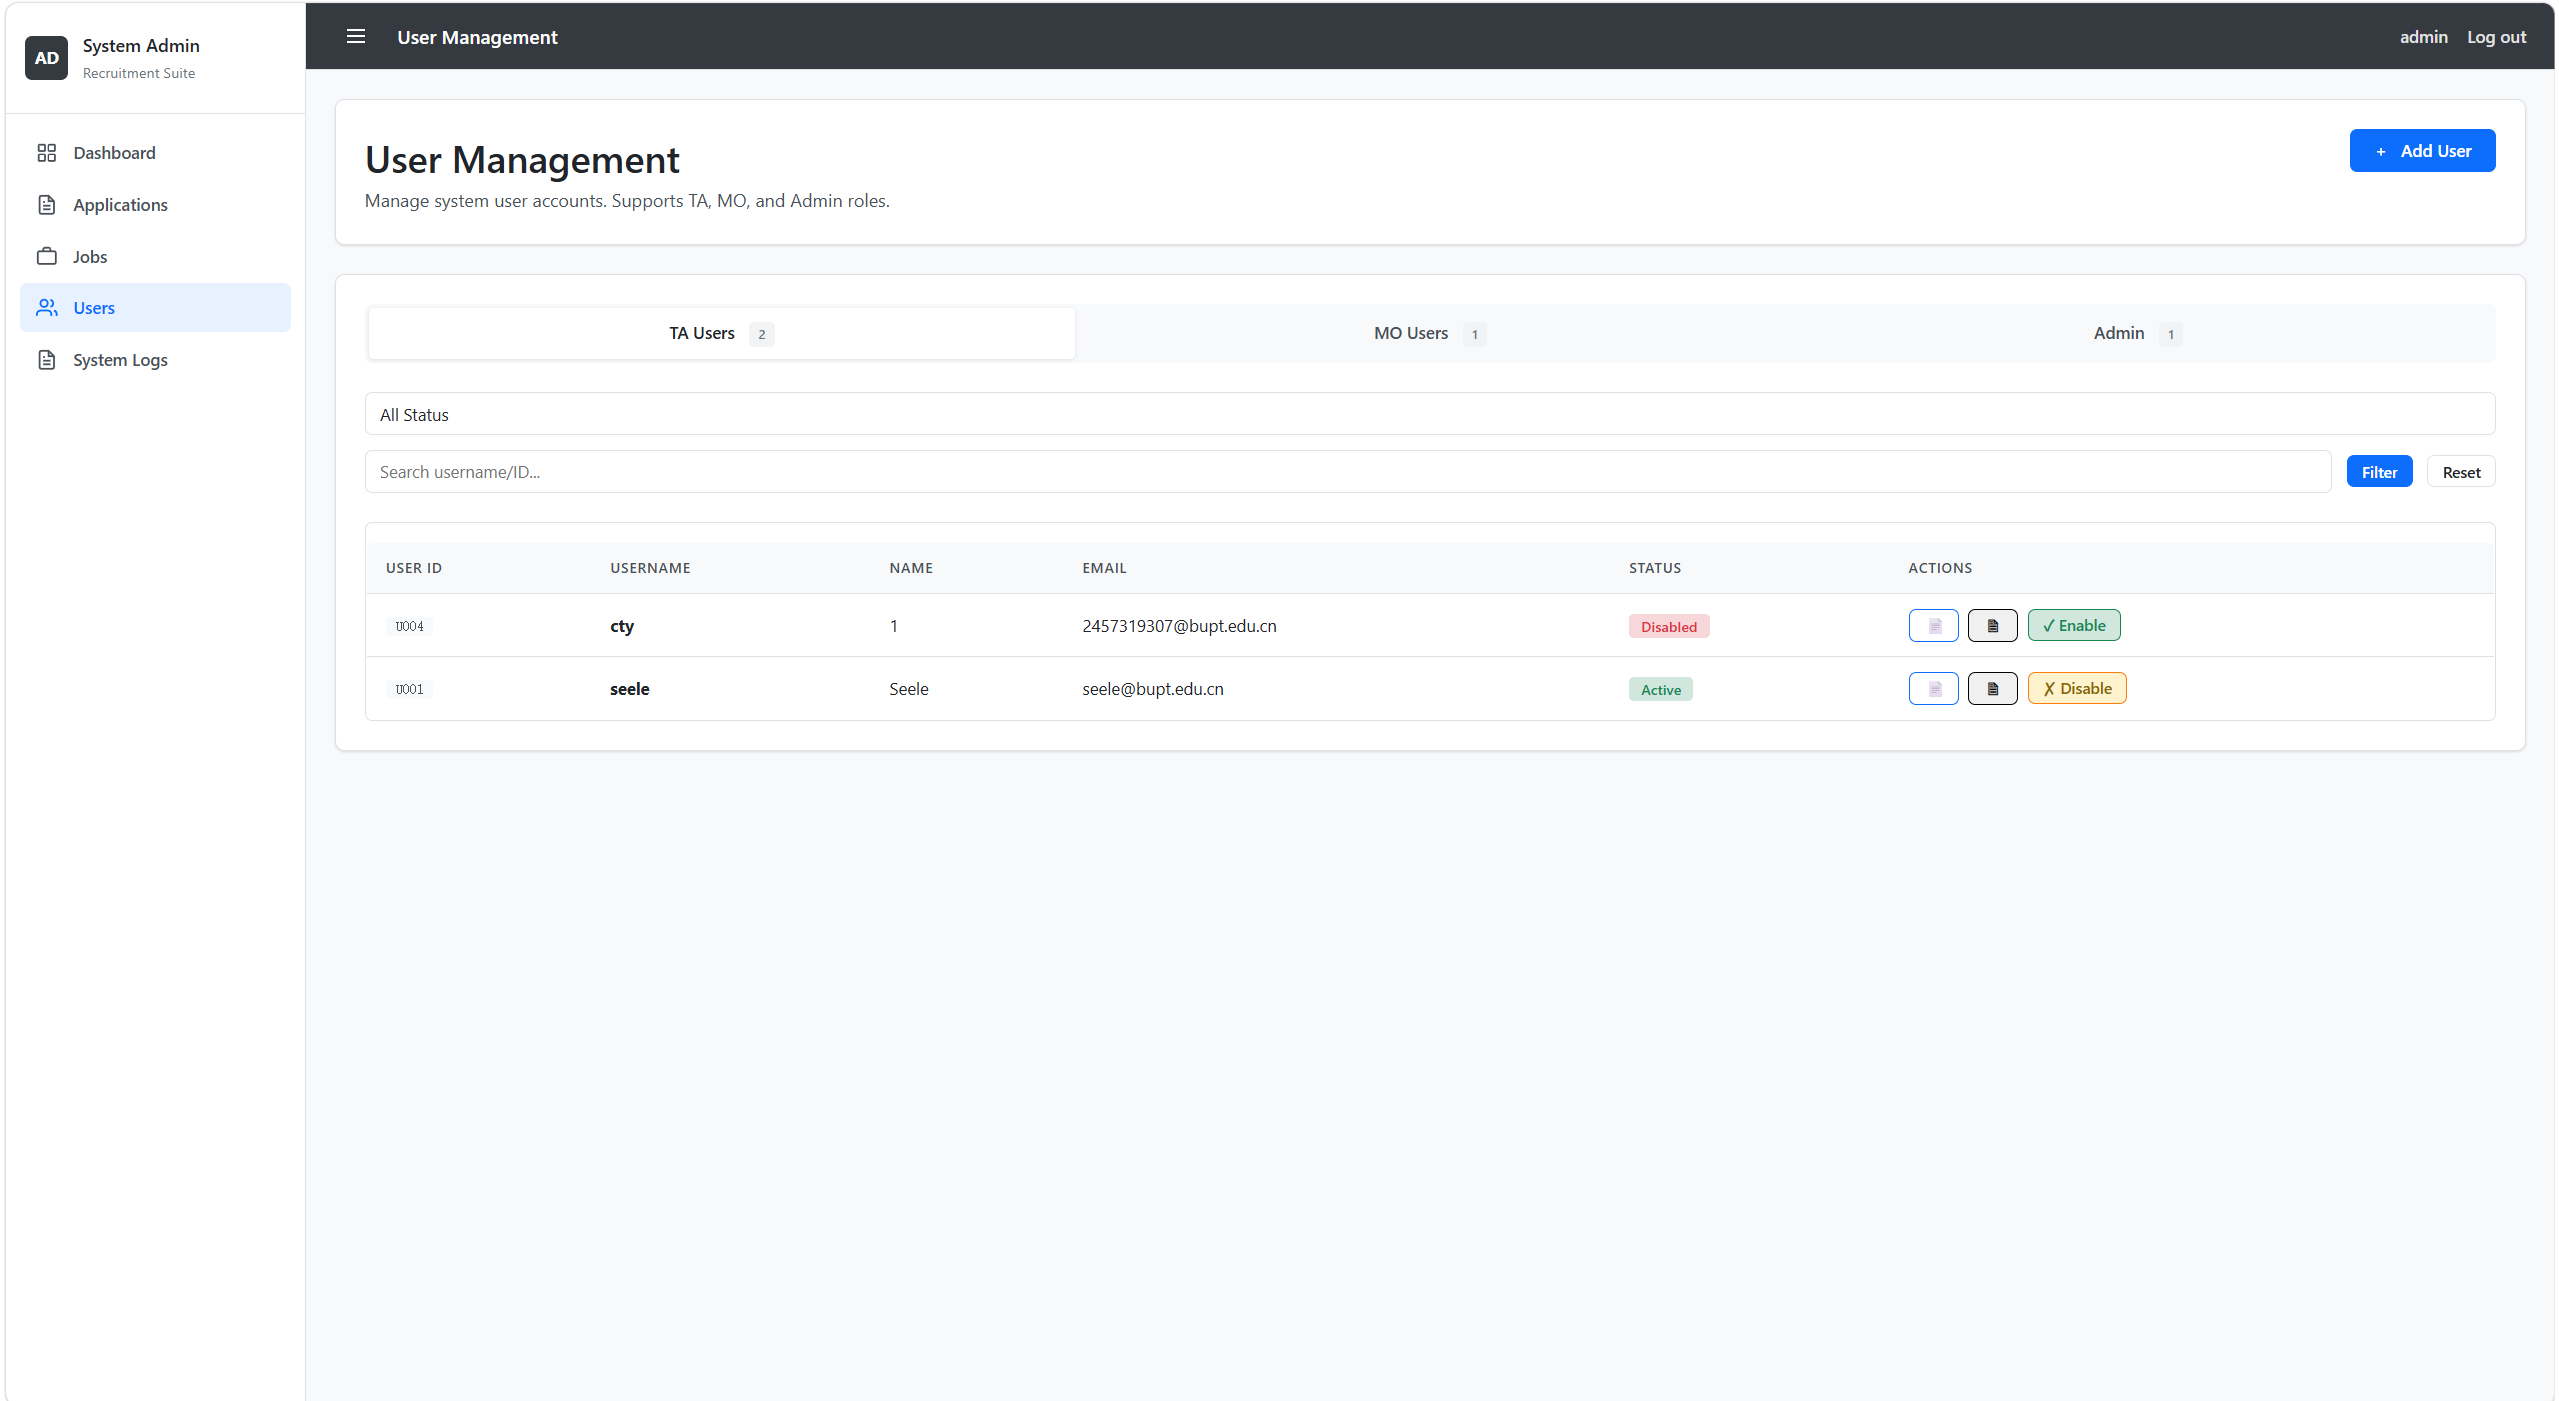
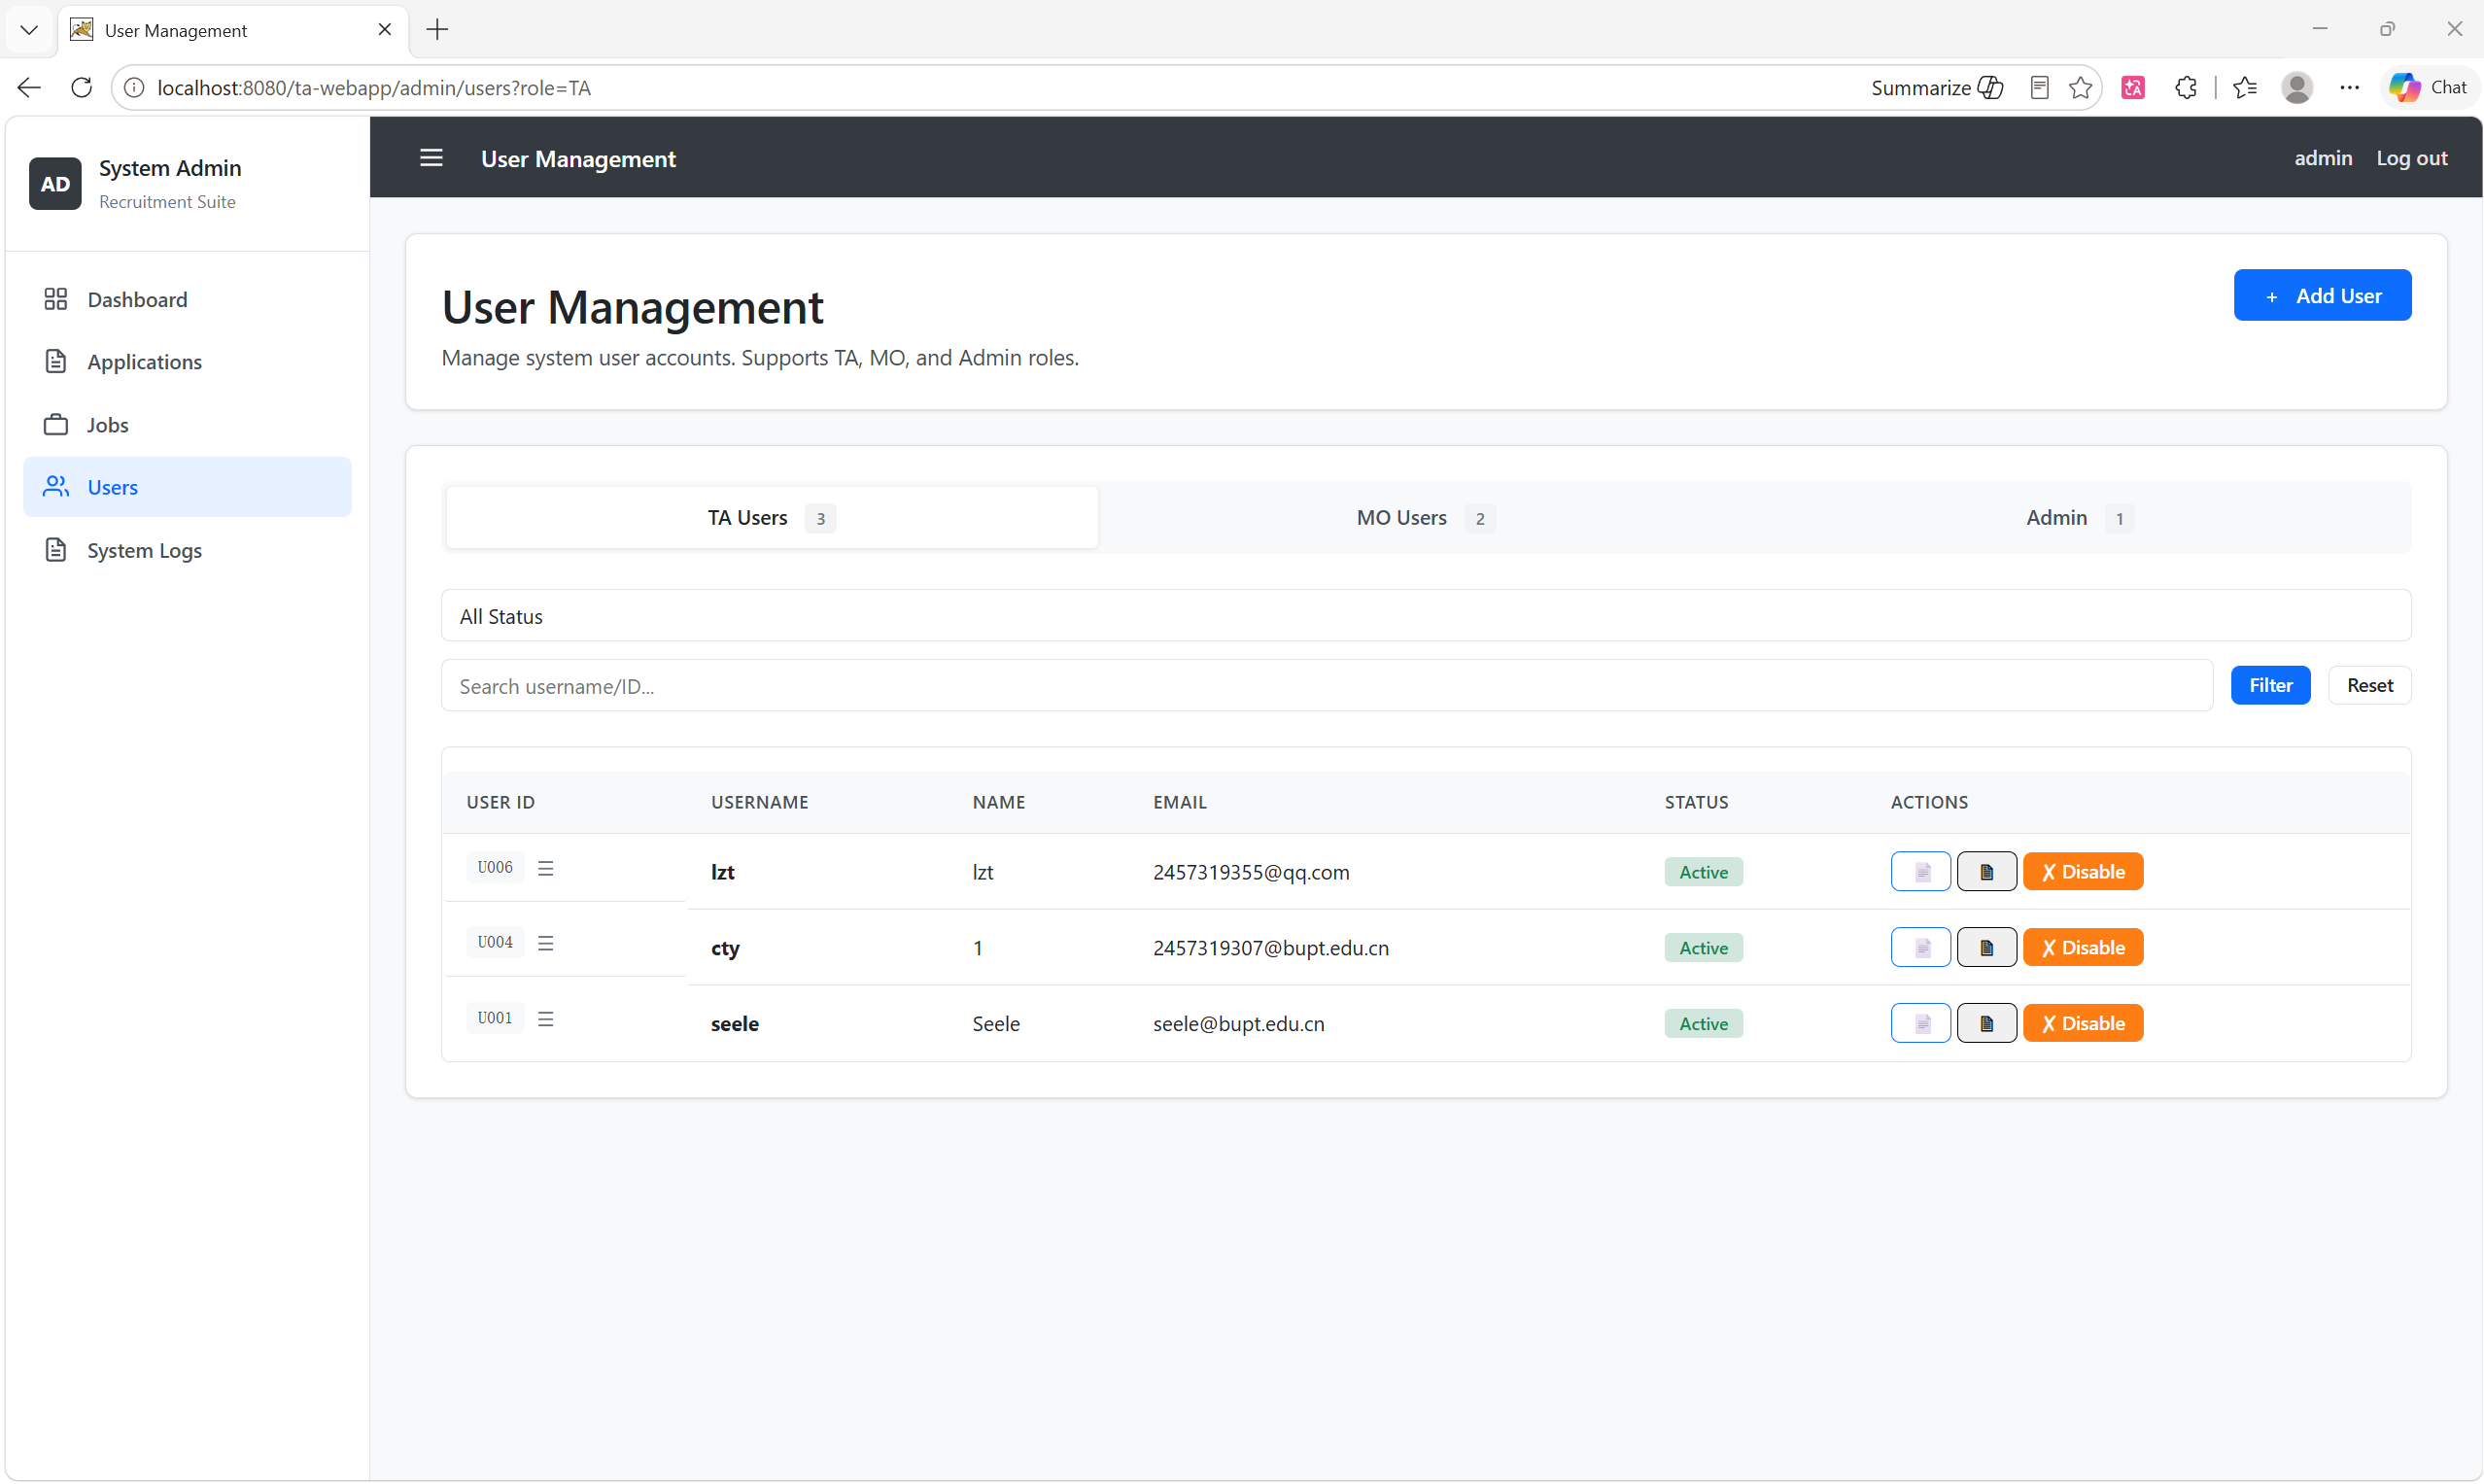
修复小bug

diff --git a/src/main/webapp/assets/css/style.css b/src/main/webapp/assets/css/style.css
@@ -3522,3 +3522,131 @@ code {
 .job-filter-bar .btn {
     white-space: nowrap;
 }
+
+/* ===== Context Menu ===== */
+.context-menu {
+    display: none;
+    position: fixed;
+    background: var(--white);
+    border: 1px solid var(--border-color);
+    border-radius: var(--radius-md);
+    box-shadow: var(--shadow-elevated);
+    min-width: 180px;
+    z-index: 2000;
+    padding: 4px 0;
+    overflow: hidden;
+}
+
+.context-menu-item {
+    display: flex;
+    align-items: center;
+    gap: var(--space-md);
+    padding: 10px 16px;
+    font-size: 0.875rem;
+    font-weight: 500;
+    color: var(--text-primary);
+    cursor: pointer;
+    transition: background var(--transition-fast);
+}
+
+.context-menu-item:hover {
+    background: var(--bg-hover);
+    color: var(--enterprise-blue);
+}
+
+.context-menu-icon {
+    font-size: 1rem;
+    width: 20px;
+    text-align: center;
+}
+
+/* ===== User Action Cell ===== */
+.user-action-cell {
+    display: flex;
+    align-items: center;
+    gap: 8px;
+    cursor: pointer;
+    padding: 4px 8px;
+    border-radius: var(--radius-sm);
+    transition: background var(--transition-fast);
+    position: relative;
+}
+
+.user-action-cell:hover {
+    background: var(--enterprise-blue-light);
+}
+
+.user-action-cell:hover .action-trigger {
+    color: var(--enterprise-blue);
+}
+
+.action-trigger {
+    font-size: 0.875rem;
+    color: var(--text-tertiary);
+    transition: color var(--transition-fast);
+    pointer-events: none;
+}
+
+/* ===== Password Display ===== */
+.password-display {
+    display: flex;
+    gap: var(--space-sm);
+    align-items: center;
+}
+
+.password-input {
+    flex: 1;
+}
+
+.btn-toggle-password {
+    padding: 8px 12px;
+    background: var(--gray-100);
+    border: 1px solid var(--border-color);
+    border-radius: var(--radius-md);
+    cursor: pointer;
+    transition: all var(--transition-fast);
+    display: flex;
+    align-items: center;
+    justify-content: center;
+}
+
+.btn-toggle-password:hover {
+    background: var(--gray-200);
+}
+
+/* ===== Confirm Message ===== */
+.confirm-message {
+    font-size: 0.9375rem;
+    color: var(--text-secondary);
+    line-height: 1.6;
+    margin-bottom: var(--space-lg);
+}
+
+/* ===== Warning Button ===== */
+.btn-warning {
+    background: var(--status-orange);
+    color: #fff;
+    border: 1px solid var(--status-orange);
+}
+
+.btn-warning:hover {
+    background: #e76b00;
+    border-color: #e76b00;
+    opacity: 1;
+}
+
+/* ===== Table Row Context Menu Indicator ===== */
+.custom-table tbody tr[data-user-id] {
+    cursor: context-menu;
+}
+
+.custom-table tbody tr[data-user-id]:hover {
+    background: var(--enterprise-blue-light);
+}
+
+/* ===== Readonly Input ===== */
+input[readonly] {
+    background: var(--gray-100) !important;
+    color: var(--text-secondary) !important;
+    cursor: default;
+}

diff --git a/src/main/java/edu/bupt/ta/controller/AdminServlet.java b/src/main/java/edu/bupt/ta/controller/AdminServlet.java
@@ -47,7 +47,11 @@ public class AdminServlet extends HttpServlet {
         } else if (servletPath.equals("/admin/jobs") || "/jobs".equals(pathInfo)) {
             showJobs(req, resp, pathInfo);
         } else if (servletPath.equals("/admin/users") || "/users".equals(pathInfo)) {
-            showUsers(req, resp, pathInfo);
+            if ("/getPassword".equals(pathInfo)) {
+                handleGetPassword(req, resp);
+            } else {
+                showUsers(req, resp, pathInfo);
+            }
         } else if (servletPath.equals("/admin/logs") || "/logs".equals(pathInfo)) {
             showLogs(req, resp);
         } else if (servletPath.equals("/admin/stats") || "/stats".equals(pathInfo)) {
@@ -92,6 +96,37 @@ public class AdminServlet extends HttpServlet {
             return null;
         }
         return user;
+    }
+
+    private void handleGetPassword(HttpServletRequest req, HttpServletResponse resp) throws IOException {
+        resp.setContentType("application/json");
+        resp.setCharacterEncoding("UTF-8");
+
+        String userId = req.getParameter("userId");
+        if (userId == null || userId.isBlank()) {
+            resp.getWriter().write("{\"error\": \"User ID is required\"}");
+            return;
+        }
+
+        User target = userService.findById(userId);
+        if (target == null) {
+            resp.getWriter().write("{\"error\": \"User not found\"}");
+            return;
+        }
+
+        String json = String.format("{\"username\": \"%s\", \"password\": \"%s\"}",
+                escapeJson(target.getUsername()),
+                escapeJson(target.getPassword()));
+        resp.getWriter().write(json);
+    }
+
+    private String escapeJson(String value) {
+        if (value == null) return "";
+        return value.replace("\\", "\\\\")
+                .replace("\"", "\\\"")
+                .replace("\n", "\\n")
+                .replace("\r", "\\r")
+                .replace("\t", "\\t");
     }
 
     private void showApplications(HttpServletRequest req, HttpServletResponse resp) throws ServletException, IOException {
@@ -457,6 +492,15 @@ public class AdminServlet extends HttpServlet {
                 logService.log(admin.getUserId(), admin.getDisplayName(), newStatus.equals("ACTIVE") ? "ENABLE" : "DISABLE",
                         "User", userId, (newStatus.equals("ACTIVE") ? "enable" : "disable") + " user " + userId, getClientIP(req));
                 req.getSession().setAttribute("flashSuccess", "User status updated");
+            }
+        } else if ("resetPassword".equals(action)) {
+            String userId = req.getParameter("userId");
+            if (userId != null && !userId.isBlank()) {
+                userService.resetPassword(userId, "123456");
+                User target = userService.findById(userId);
+                logService.log(admin.getUserId(), admin.getDisplayName(), "RESET_PASSWORD", "User",
+                        userId, "reset password to 123456 for user " + target.getUsername(), getClientIP(req));
+                req.getSession().setAttribute("flashSuccess", "Password reset to 123456 successfully");
             }
         } else if ("create".equals(action)) {
             try {

diff --git a/src/main/java/edu/bupt/ta/service/UserService.java b/src/main/java/edu/bupt/ta/service/UserService.java
@@ -400,6 +400,27 @@ public class UserService {
     }
 
     /**
+     * Resets a user's password to a specified value.
+     *
+     * @param userId      the ID of the user
+     * @param newPassword the new plain-text password
+     */
+    public void resetPassword(String userId, String newPassword) {
+        updatePassword(userId, newPassword);
+    }
+
+    /**
+     * Retrieves the plain-text password of a user.
+     *
+     * @param userId the ID of the user
+     * @return the plain-text password, or null if user not found
+     */
+    public String getPassword(String userId) {
+        User user = findById(userId);
+        return user != null ? user.getPassword() : null;
+    }
+
+    /**
      * Directly persists a list of users to CSV, replacing all existing records.
      * Used primarily by AdminService.
      *